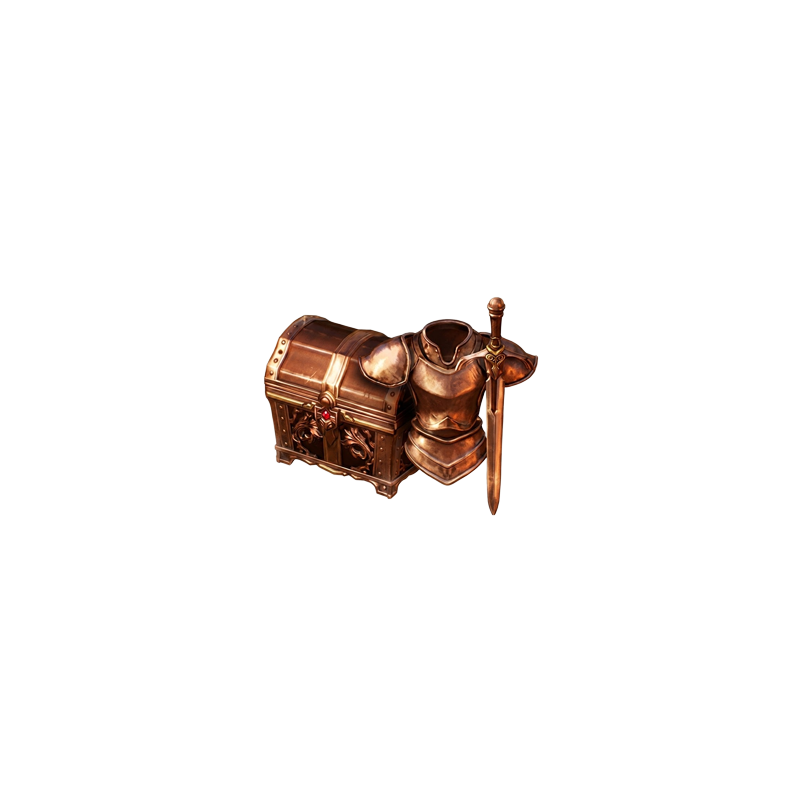
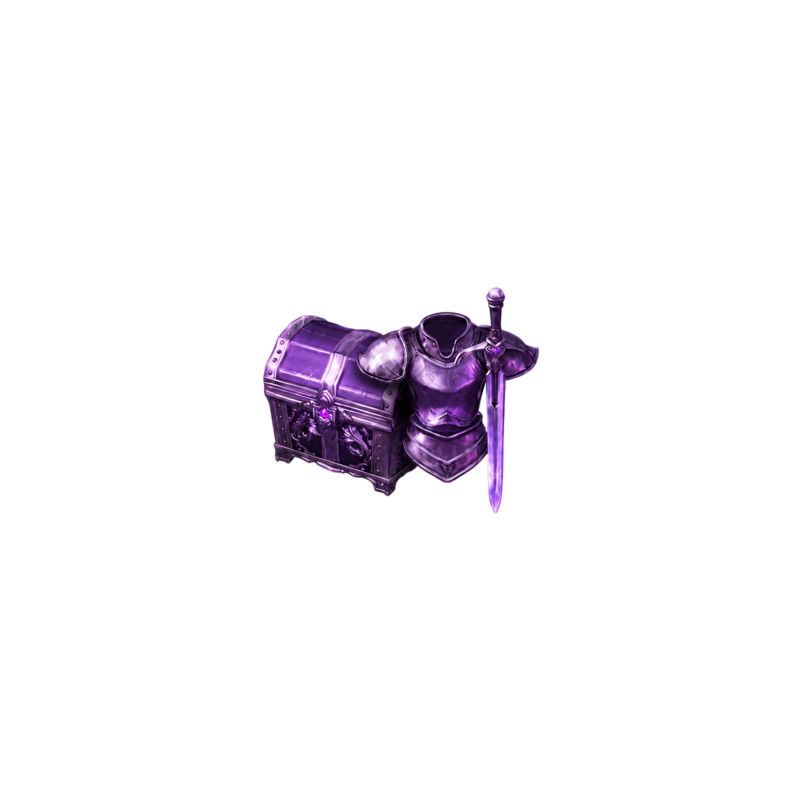
이미지 추가 + 고유의 보석 데엑마 가능

Changed region(s): [[0.3125, 0.3438, 0.6875, 0.6562]]

diff --git a/rpgenius.js b/rpgenius.js
@@ -5357,7 +5357,7 @@ function getAccessoryChoiceCandidates(rarity) {
     const equipments = getDataCache('Equipment', {});
     return (equipments.accessory || [])
         .map((equipment, id) => ({ id, equipment }))
-        .filter(entry => entry.equipment && entry.equipment.rarity == rarity && entry.equipment.name != '데우스 엑스 마키나');
+        .filter(entry => entry.equipment && entry.equipment.rarity == rarity && entry.equipment.name != '신규 장신구');
 }
 
 function formatAccessoryChoiceList(candidates) {